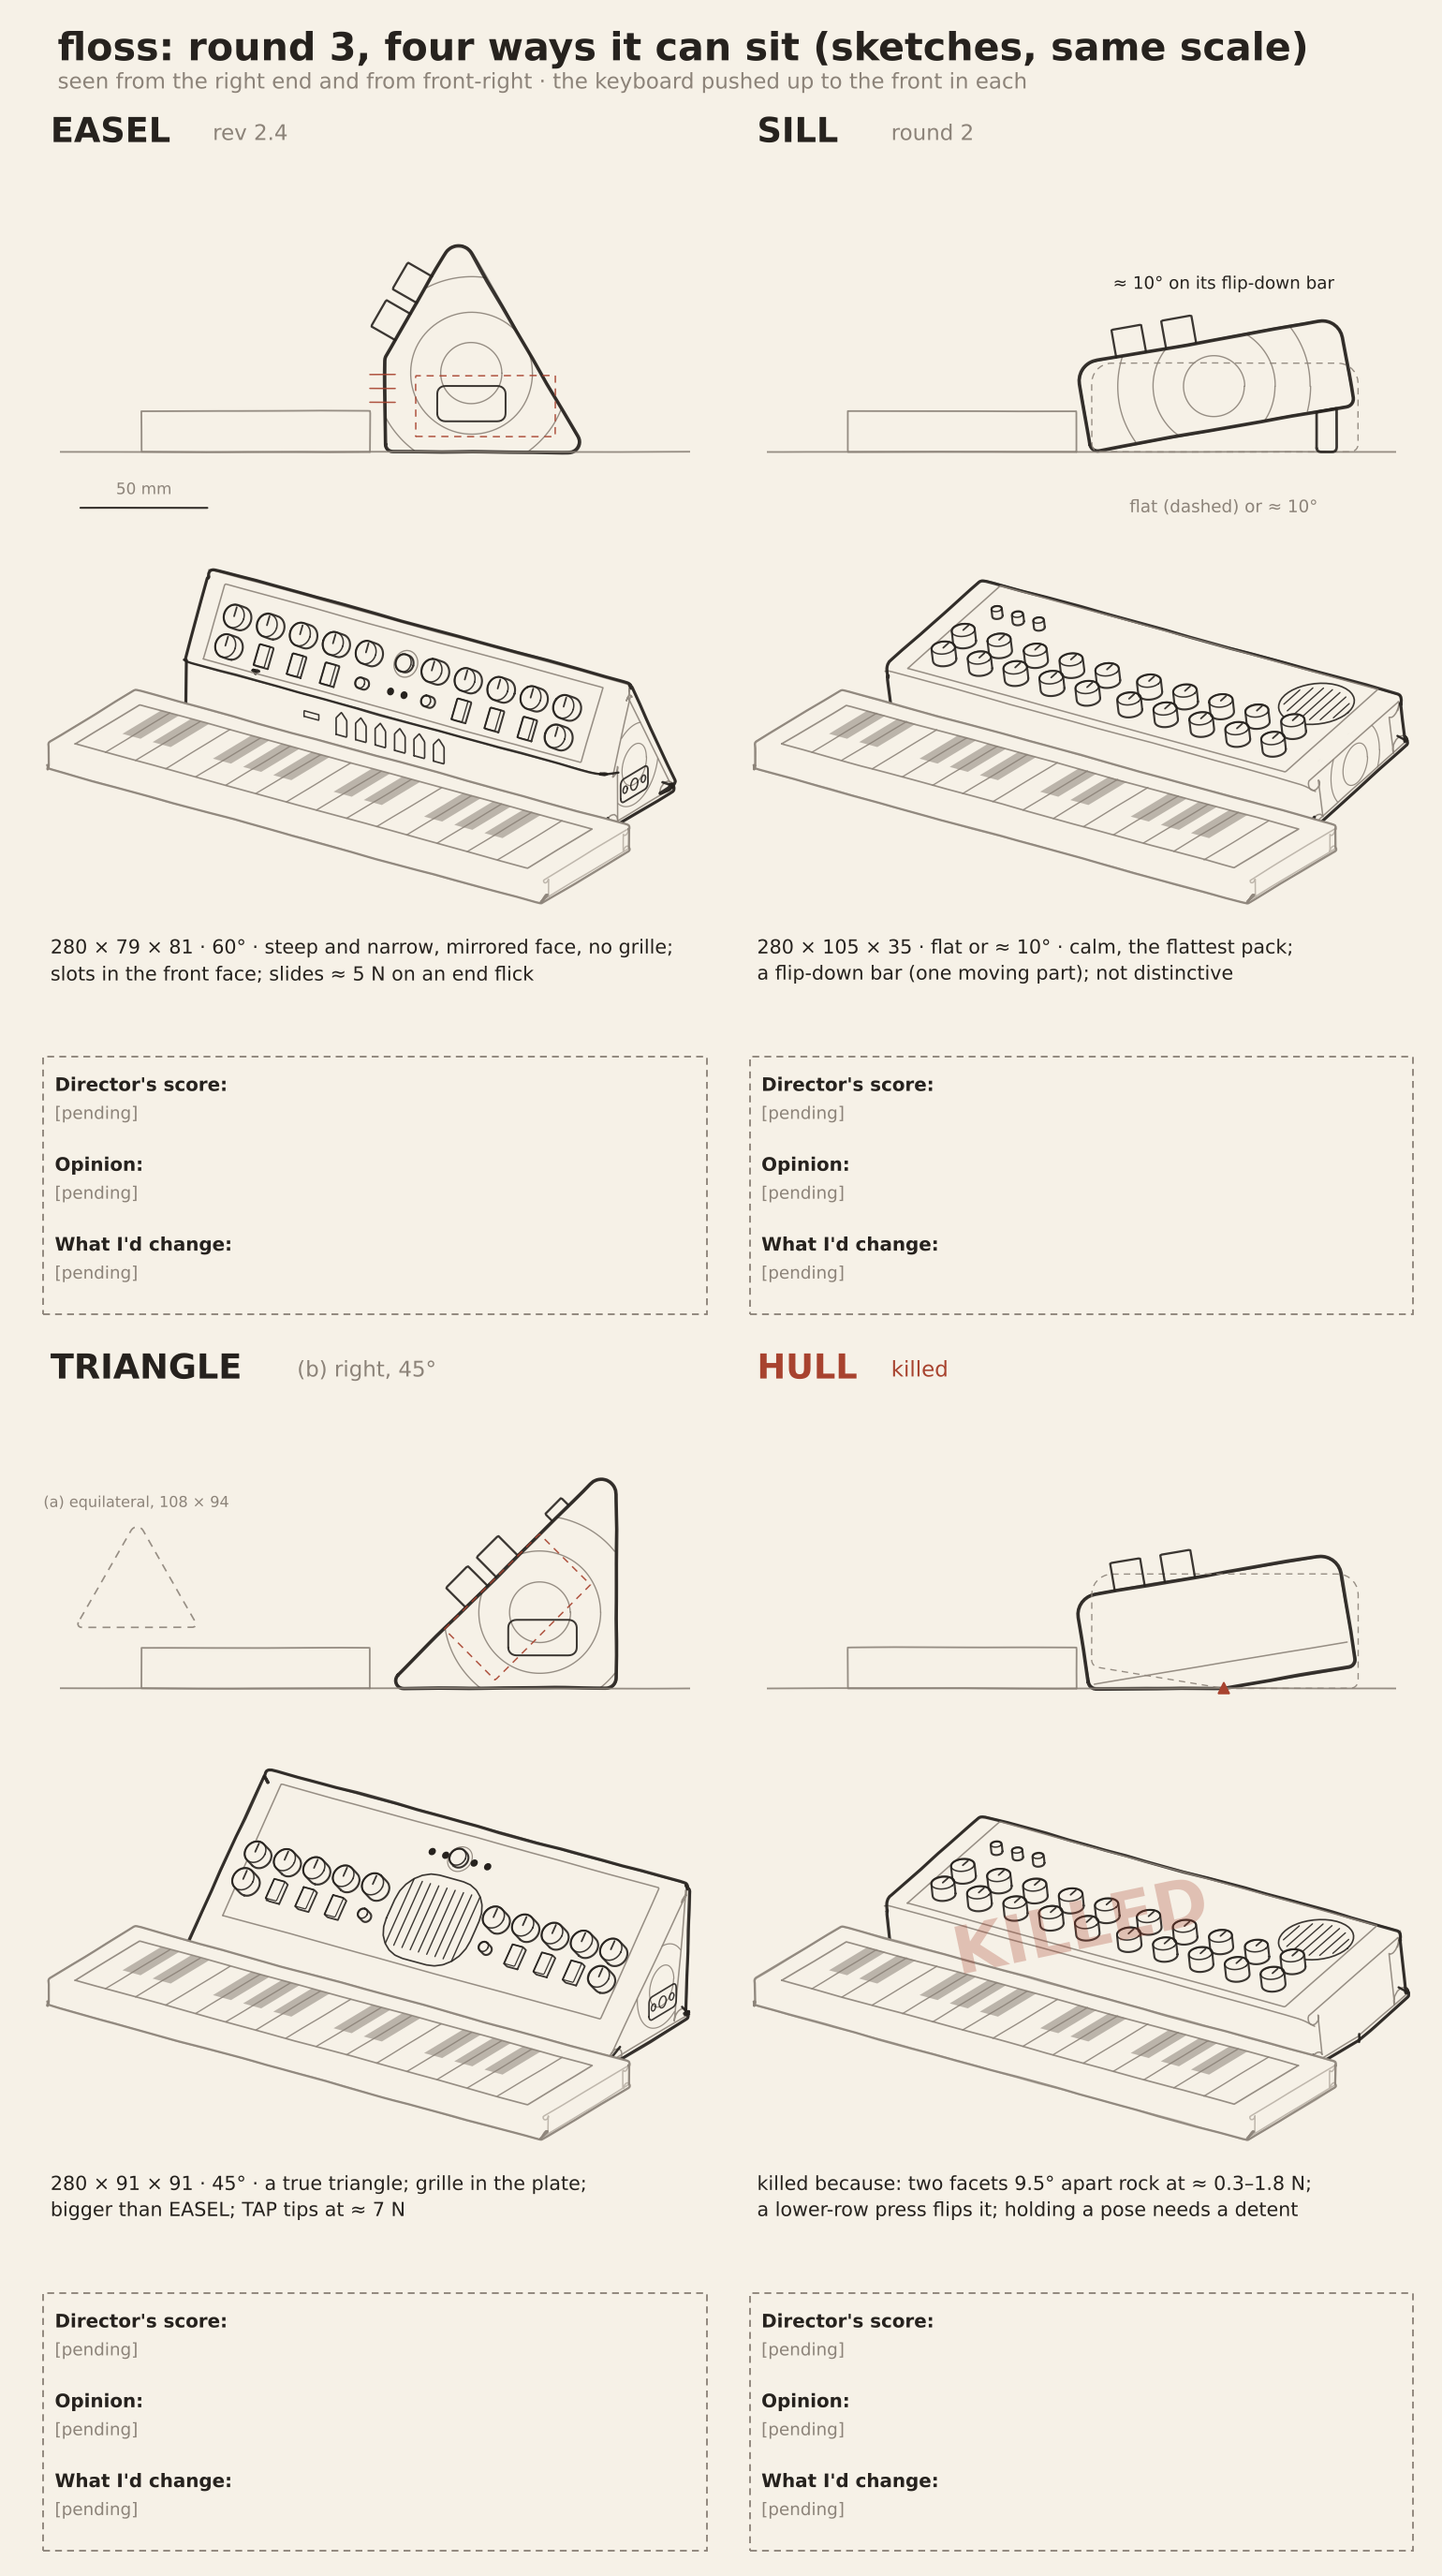
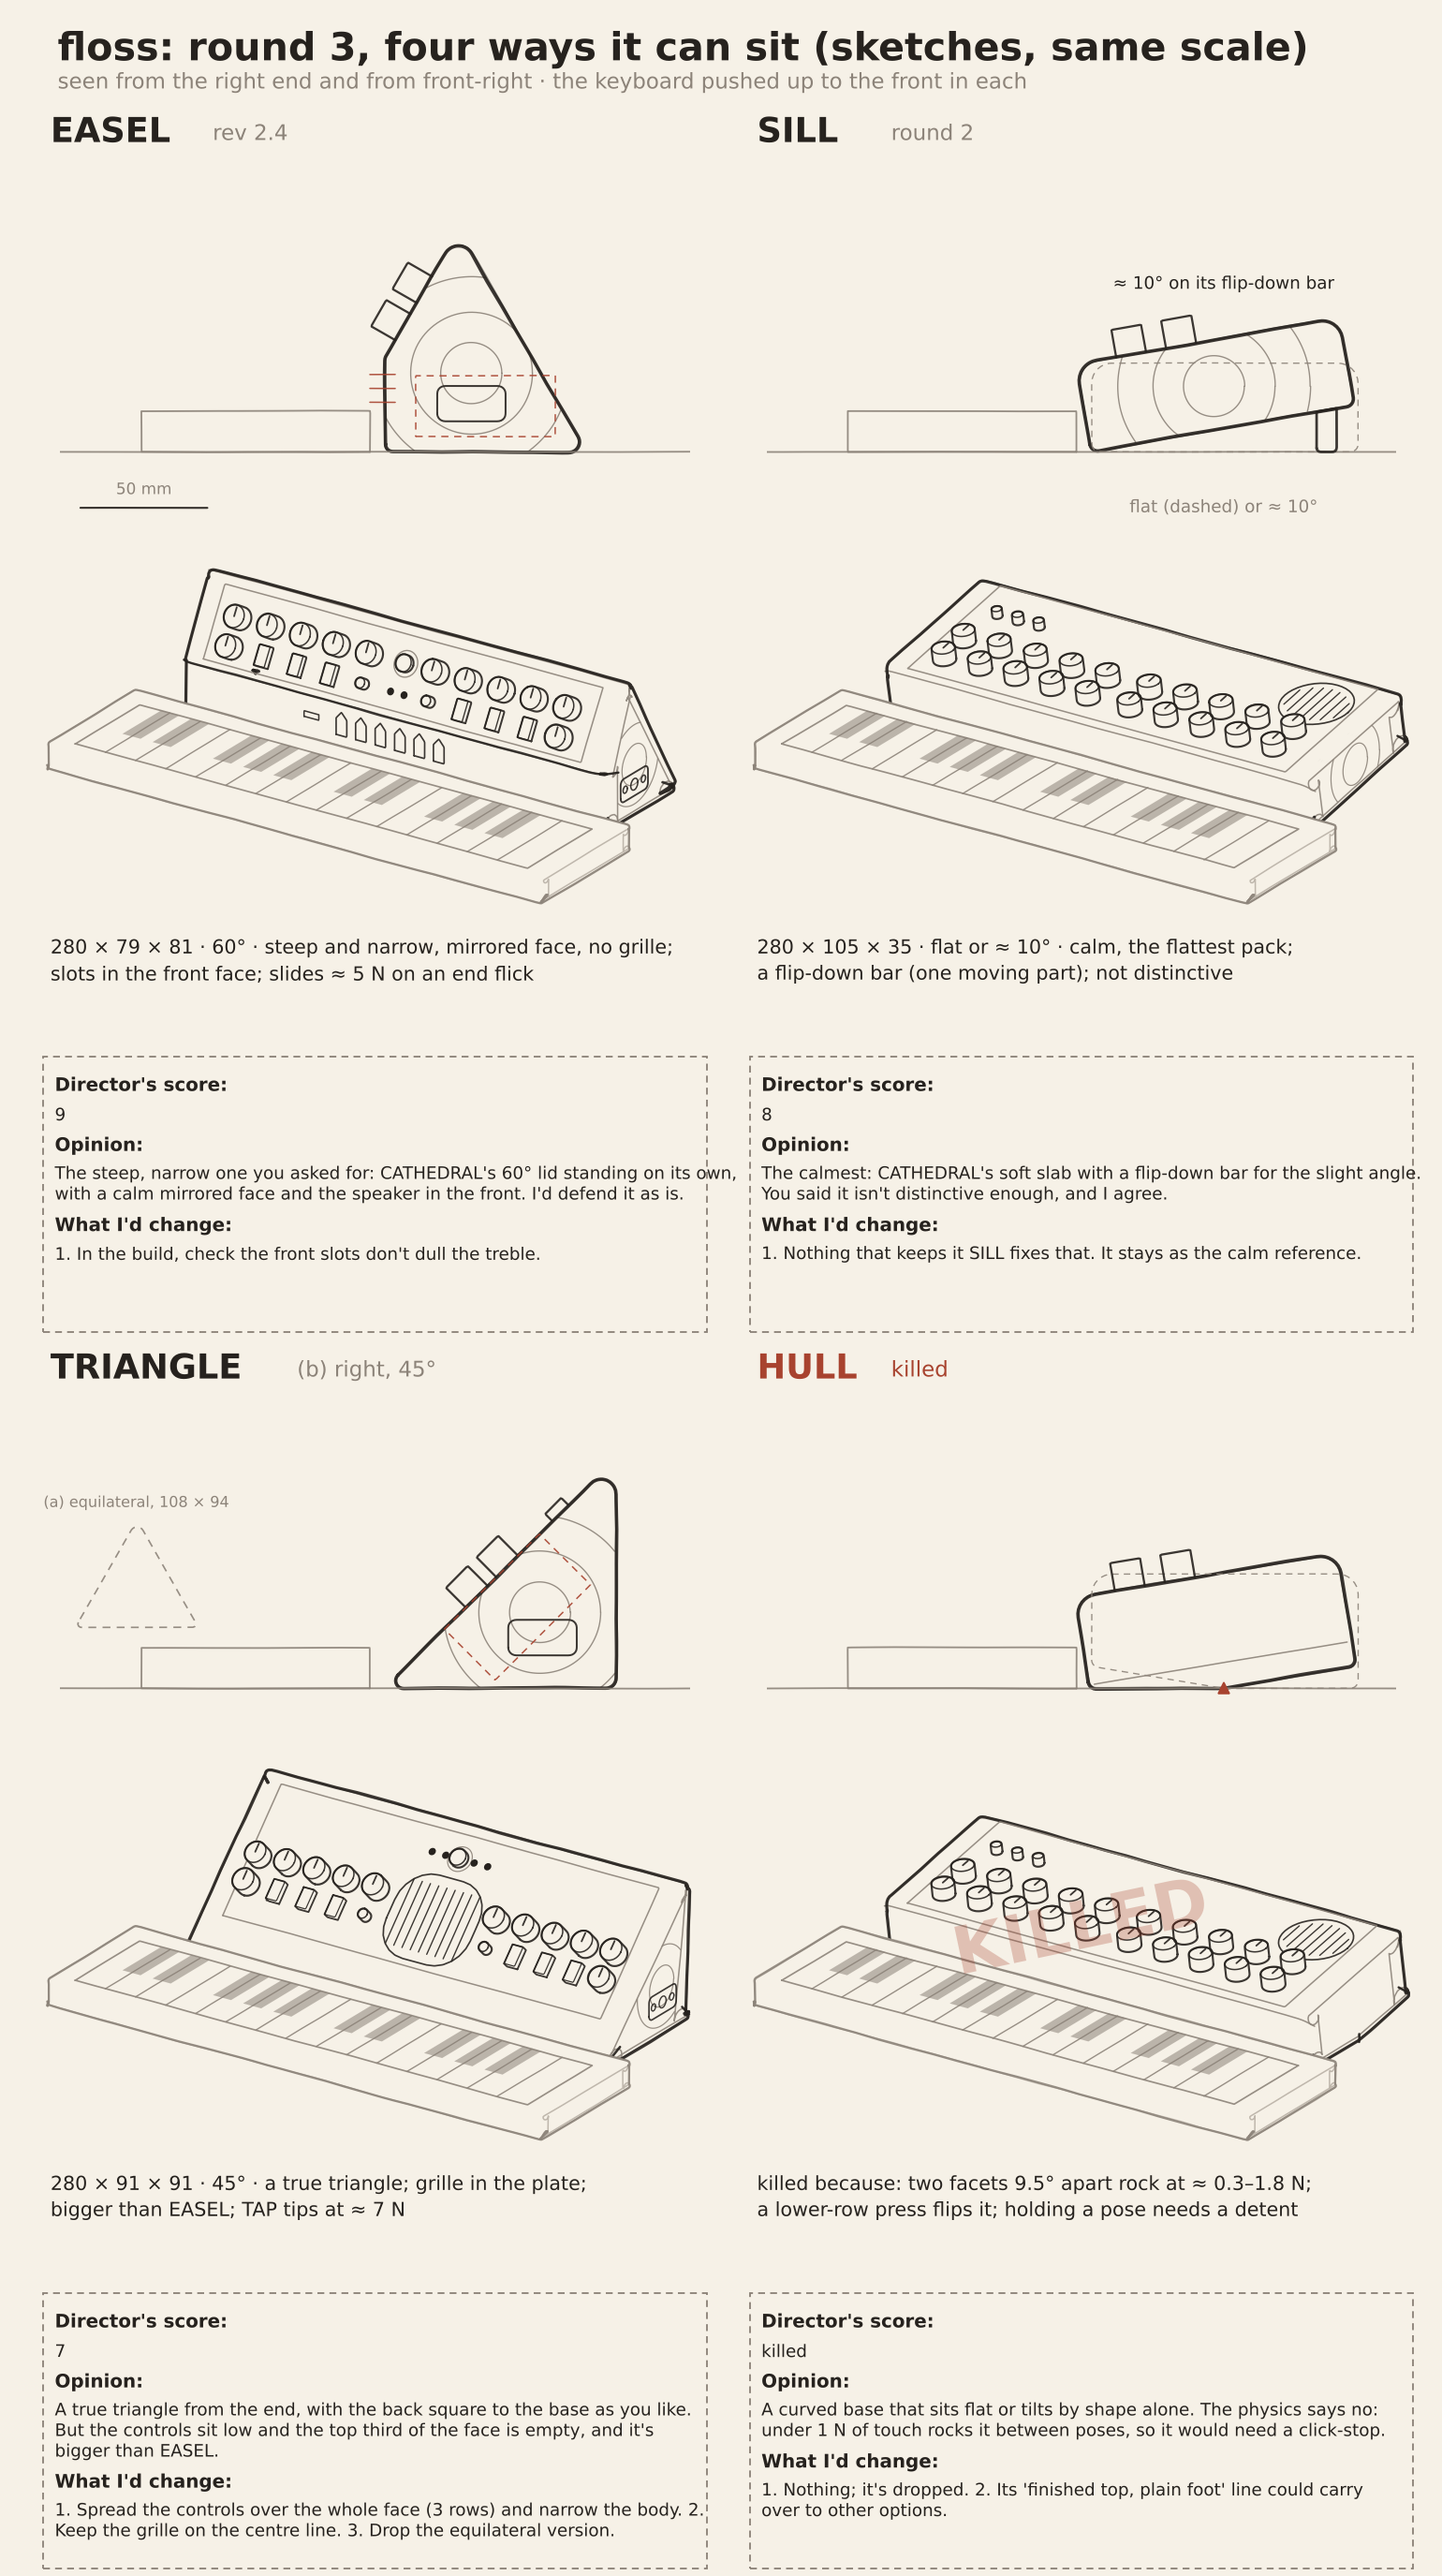
floss: round 3 scored (EASEL 9, SILL 8, TRIANGLE 7, HULL killed); notes on sheet

diff --git a/floss/design/concepts/_src/r3_sketch.py b/floss/design/concepts/_src/r3_sketch.py
@@ -448,7 +448,7 @@ def compare(path):
                     ha="center", va="center", rotation=12, weight="bold", zorder=20)
         fig.text(cx + 0.01, cy - 0.318, trade, fontsize=13.5, color=INK, va="top", linespacing=1.35)
         # director block
-        bx, by, bw, bh = cx + 0.005, cy - 0.465, cw - 0.01, 0.1
+        bx, by, bw, bh = cx + 0.005, cy - 0.472, cw - 0.01, 0.107
         fig.patches.append(plt.Rectangle((bx, by), bw, bh, transform=fig.transFigure, fill=False,
                                          ec=SOFT, lw=1.2, ls=(0, (4, 3))))
         t = D.get(nm, ["[pending]", "[pending]", "[pending]"])
@@ -457,9 +457,10 @@ def compare(path):
         for k, v in lines:
             fig.text(bx + 0.008, yy, f"{k}: ", fontsize=13, weight="bold", color=INK, va="top")
             import textwrap
-            fig.text(bx + 0.008, yy - 0.0105, "\n".join(textwrap.wrap(v, 78)) or v, fontsize=12,
+            wl = textwrap.wrap(v, 78) or [v]
+            fig.text(bx + 0.008, yy - 0.0105, "\n".join(wl), fontsize=12,
                      color=INK if v != "[pending]" else SOFT, va="top", linespacing=1.2)
-            yy -= 0.031
+            yy -= 0.0105 + 0.0078 * len(wl) + 0.005
     # one scale bar
     a = fig.axes[0]
     wob(a, [(70, -22), (120, -22)], lw=1.4, passes=1, amp=0.05, over=0)

diff --git a/floss/design/scores.md b/floss/design/scores.md
@@ -179,3 +179,34 @@ Judged from the rev 2.4 `r2-easel/sketch.png` (right-end view, 3/4 with the keyb
 
 ## Process note (2026-11-23): owner sees every round
 Owner, 00:21, verbatim: "I want to try a riff on the standard design buds setting for this early stage concepting - rather than not see until 9 I want to see every round but with the directors score, opinion, and what they’d change". From round 3 on, each concept's score here starts with a short **Owner lines** block (score, opinion, what I'd change). A 9 still means "I'd defend it as is".
+
+## Round 3: EASEL, SILL, TRIANGLE, HULL (2026-11-23, director)
+Judged from `concepts/r3-sketches.png` (2 × 2, same scale), `r3-triangle/sketch.png`, systems' `r3-triangle/how-it-works.md` + `coverage.md` and `r3-hull/how-it-works.md`. **Owner, verbatim:** "I want options. Do one that’s a triangle too"; "The end view I’d not a triangle"; "I still want to see sketches of failed ideas in this design buds riff". Every option goes to him (00:21 process).
+
+**Owner lines** (also in `concepts/_src/r3_director.json`):
+- **EASEL: 9.** The steep, narrow one you asked for: CATHEDRAL's 60° lid standing on its own, with a calm mirrored face and the speaker in the front. I'd defend it as is. Change: 1. In the build, check the front slots don't dull the treble.
+- **SILL: 8.** The calmest: CATHEDRAL's soft slab with a flip-down bar for the slight angle. You said it isn't distinctive enough, and I agree. Change: 1. Nothing that keeps it SILL fixes that. It stays as the calm reference.
+- **TRIANGLE: 7.** A true triangle from the end, with the back square to the base as you like. But the controls sit low and the top third of the face is empty, and it's bigger than EASEL. Change: 1. Spread the controls over the whole face (3 rows) and narrow the body. 2. Keep the grille on the centre line. 3. Drop the equilateral version.
+- **HULL: killed.** A curved base that sits flat or tilts by shape alone. The physics says no: under 1 N of touch rocks it between poses, so it would need a click-stop. Change: 1. Nothing; it's dropped. 2. Its "finished top, plain foot" line could carry over to other options.
+
+**TRIANGLE (b), right triangle at 45°, 280 × 91 × 91: 7.** It's his exact ask (three faces), the vertical back is his 19:02 rule, base = back is a real ratio (the parts leave the angle free), and the grille on the axis keeps the face symmetric.
+- **Likely owner objections:**
+  1. **The empty upper plate.** The rows sit at z 36 / 48 and TAP at 69, and the plate runs ≈ 129 along the slope to the apex, so about the top third is blank. That's the same objection EASEL rev 1 drew, and it's visible at a glance in the 3/4. **Likely.**
+  2. Bigger than EASEL (91 × 91 vs 79 × 81) with no gain he asked for.
+  3. A prism / "Toblerone" read (possible).
+  4. The face isn't all controls (the grille).
+  5. TAP tips it back at ≈ 7 N.
+  6. Steep, so it's not flat or slightly angled. That's fine now: he wants options of both kinds.
+- **Fixes:**
+  1. Let the plate the driver forces carry the controls. Use 3 rows (for example 7 + 7 + 7, mirrored, with the grille on the axis between the half-groups), and narrow the body to suit (≈ 220–230 wide, systems to size). Restate the tip forces for the top row (presses ≈ 2–5 N must stay well under them).
+  2. Width then stops being tight (257 of 260).
+  3. Keep base = back.
+- **(a) equilateral, 108 × 94:** bigger and no clearer as a triangle. Drop it; don't redraw it. (Systems is right that it isn't "EASEL minus 37": the predella was the speaker's home.)
+
+**HULL: killed** (systems' physics). Two facets 9.5° apart leave a ≈ 3–4.5 mm stability window, and it rocks at ≈ 0.3–1.8 N (a lower-row press is ≈ 0.6 N). Holding a pose needs a detent, which meets my kill rule. Visual's possible mirrored-facet note doesn't change that. Shown to him as a failed idea, at his request.
+
+**EASEL** and **SILL:** unchanged work, scores held (EASEL's packing-caption fix is a text edit).
+
+**What keeps blocking a 9:** leftover face area, again. When a form is set by the driver rather than the controls (EASEL rev 1, now TRIANGLE), the plate grows past the controls and the empty field shows. The fix that worked for EASEL is to let the controls set the plate, or fill the plate the driver forces with the controls. The low slot is still open: HULL failed on physics, and no distinctive low one-piece answer exists yet.
+
+**Changed since the last score?** TRIANGLE and HULL: first scores. EASEL and SILL: no change.

diff --git a/floss/design/notes/director.md b/floss/design/notes/director.md
@@ -724,3 +724,11 @@ Distinctive vs calm. EASEL escaped through the pose. The low slot keeps convergi
 **SILL: 8**
 - Opinion: the calmest answer. CATHEDRAL's lid as a soft slab, with a bar that flips down for the slight angle. But you said it isn't distinctive enough, and I agree.
 - What I'd change: (1) nothing that keeps it SILL would make it more distinctive. It stays as the calm reference beside the new options.
+
+# Round 3 scored (2026-11-23)
+- **Owner, verbatim:** "I still want to see sketches of failed ideas in this design buds riff". Killed ideas go on the sheet with their owner lines.
+- **Scores:** EASEL 9 (held), SILL 8 (held), **TRIANGLE (b) 7**, HULL killed (rocks at 0.3–1.8 N; needs a detent). (a) equilateral dropped.
+- **TRIANGLE's main objection:** the empty upper third of the plate (leftover again). Fix: 3 mirrored rows with the grille on the axis, body narrowed (≈ 220–230), tip forces restated.
+- **Owner lines JSON:** `concepts/_src/r3_director.json`.
+- **Open:** the low slot has no distinctive one-piece answer (LOW GNOMON = SILL, HULL = physics). If he wants another low option, a new principle is needed (one moving or second part allowed, earning its place). Ask him rather than force one.
+- **Next:** the owner reacts to round 3. If TRIANGLE is liked, systems and visual do the 3-row fix and I re-score.
